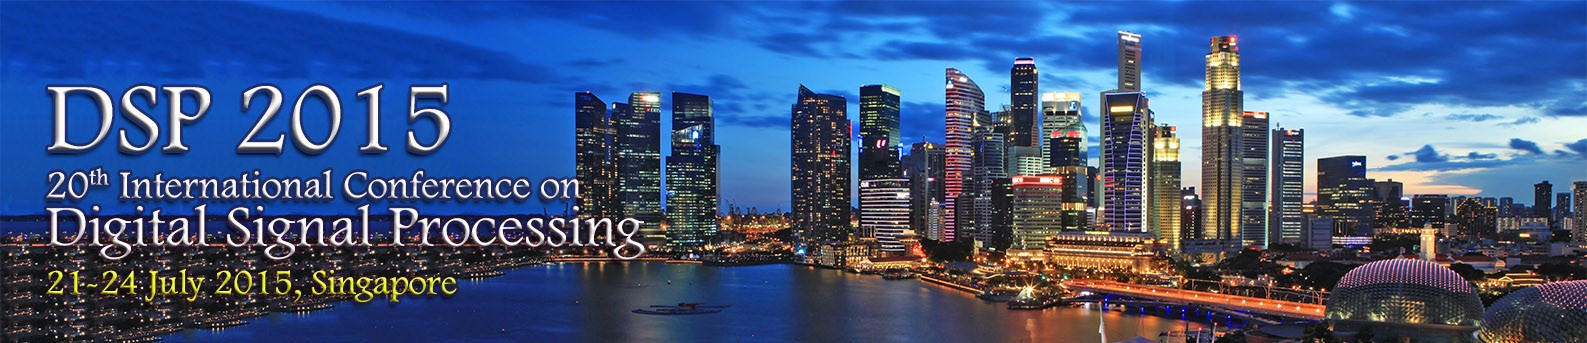
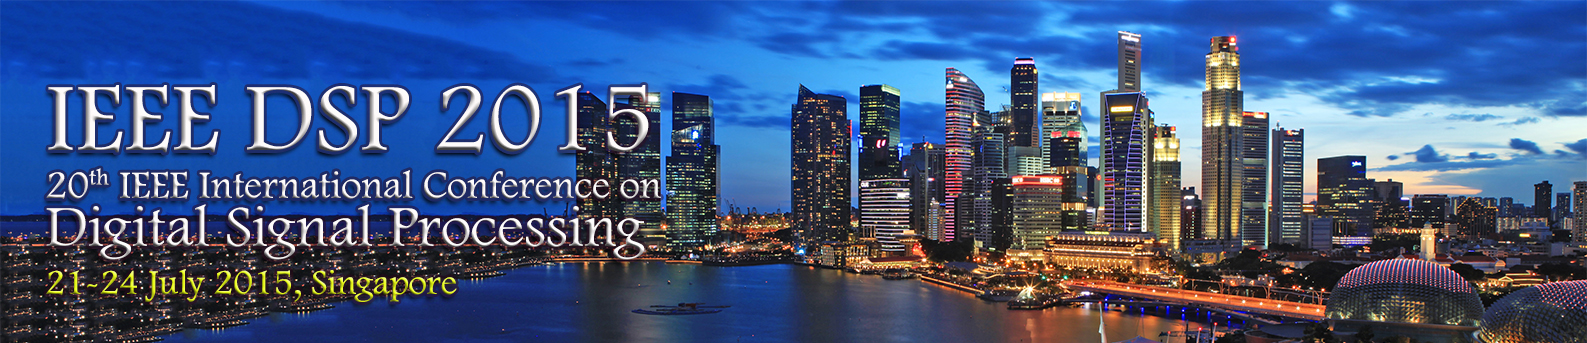
Ammendment

diff --git a/index.html b/index.html
@@ -162,14 +162,14 @@
         <div id="page-wrapper">
             <div class="row">
                 <div class="col-lg-12" style="padding: 0px;">
-                    <h3 class="page-header" style="padding: 0px;border: 0px;margin-bottom: 0px;">DSP 2015</h3>
-					<h3 class="page-header" style="margin-top: 0px;">20th INTERNATIONAL CONFERENCE ON DIGITAL SIGNAL PROCESSING</h3>
+                    <!-- <h3 class="page-header" style="padding: 0px;border: 0px;margin-bottom: 0px;">DSP 2015</h3>-->
+					<h3 class="page-header" style="padding: 0px;">2015 IEEE International conference on Digital Signal Processing (DSP)</h3>
 				</div>
                 <!-- /.col-lg-12 -->
             </div>
 			<div class="row">
                 <p>
-					The 2015 20th International Conference on Digital Signal Processing (DSP 2015), initiated by Imperial College, London, and organized by IEEE Circuits and Systems Singapore Chapter, will be held in July 21-24, 2014 in Singapore. It is the longest in existence Conference in the area of DSP and belongs to a series of events, which commenced in London in 1968 and continued to Florence, Nicosia, Limassol, Santorini, Cardiff, Corfu, etc. The latest meeting took place in Hong Kong, SAR, P. R. China in August 2014. 
+					2015 IEEE International conference on Digital Signal Processing (DSP), initiated by Imperial College, London, and organized by IEEE Circuits and Systems Singapore Chapter, will be held in July 21-24, 2014 in Singapore. It is the longest in existence Conference in the area of DSP and belongs to a series of events, which commenced in London in 1968 and continued to Florence, Nicosia, Limassol, Santorini, Cardiff, Corfu, etc. The latest meeting took place in Hong Kong, SAR, P. R. China in August 2014. 
 				</p>
 				<p>
 					DSP 2015 addresses the theory and application of filtering, coding, transmitting, estimating, detecting, analysing, recognising, synthesising, recording, and reproducing signals by means of digital devices or techniques. The term "signal" includes audio, video, speech, image, communication, geophysical, sonar, radar, medical, musical, and other signals.
@@ -228,8 +228,8 @@
         <div id="footer">
             <div class="container" style="background: white;">
                 <img src="images/Imperial.jpg">
-                <!-- <img src="images/IEEE.png">
-                <img src="images/CAS.jpg">
+                <img src="images/IEEE.png">
+                <!-- <img src="images/CAS.jpg">
                 <img src="images/SPS.png"> -->
                 <img src="images/ROSE2.png">
             </div>

diff --git a/callforpapers.html b/callforpapers.html
@@ -177,7 +177,7 @@
             </div>
 			<div class="row">
                 <p>
-					The 2015 20th International Conference on Digital Signal Processing (DSP 2015), initiated by Imperial College, London, and organized by IEEE Circuits and Systems Singapore Chapter, will be held in July 21-24, 2014 in Singapore. It is the longest in existence Conference in the area of DSP and belongs to a series of events, which commenced in London in 1968 and continued to Florence, Nicosia, Limassol, Santorini, Cardiff, Corfu, etc. The latest meeting took place in Hong Kong, SAR, P. R. China in August 2014. 
+					2015 IEEE International conference on Digital Signal Processing (DSP), initiated by Imperial College, London, and organized by IEEE Circuits and Systems Singapore Chapter, will be held in July 21-24, 2014 in Singapore. It is the longest in existence Conference in the area of DSP and belongs to a series of events, which commenced in London in 1968 and continued to Florence, Nicosia, Limassol, Santorini, Cardiff, Corfu, etc. The latest meeting took place in Hong Kong, SAR, P. R. China in August 2014. 
 				</p>
 				<p>
 					DSP 2015 addresses the theory and application of filtering, coding, transmitting, estimating, detecting, analysing, recognising, synthesising, recording, and reproducing signals by means of digital devices or techniques. The term "signal" includes audio, video, speech, image, communication, geophysical, sonar, radar, medical, musical, and other signals.
@@ -311,8 +311,8 @@
         <div id="footer">
             <div class="container" style="background: white;">
                 <img src="images/Imperial.jpg">
-                <!-- <img src="images/IEEE.png">
-                <img src="images/CAS.jpg">
+                <img src="images/IEEE.png">
+                <!-- <img src="images/CAS.jpg">
                 <img src="images/SPS.png"> -->
                 <img src="images/ROSE2.png">
             </div>

diff --git a/orgnizingcommittee.html b/orgnizingcommittee.html
@@ -208,6 +208,18 @@
             </br>YU, Yajun,
             <em>Nanyang Technological Uni., Singapore</em>
             </p>
+            <p><strong>Europe Liaison Chair</strong>
+            </br>GABBOUJ, Moncef,
+            <em>Tampere Uni. of Technology, Finland</em>
+            </p>
+            <p><strong>North America Liaison Chair</strong>
+            </br>ZHU, Wei-Ping,
+            <em>Concordia University, Canada</em>
+            </p>
+            <p><strong>South America Liaison Chair</strong>
+            </br>DA SILVA, Eduardo A. B.,
+            <em>Uni. Federal do Rio de Janeiro, Brazil</em>
+            </p>
             <p><strong>Publicity Co-Chairs</strong>
             </br>KOT, Alex Chichung,
             <em>Nanyang Technological Uni., Singapore</em>
@@ -244,25 +256,13 @@
             </br>KHONG, Andy W. H.,
             <em>Nanyang Technological Uni., Singapore</em>
             </p>
-            <p><strong>Europe Liaison Chair</strong>
-            </br>GABBOUJ, Moncef,
-            <em>Tampere Uni. of Technology, Finland</em>
-            </p>
-            <p><strong>North America Liaison Chair</strong>
-            </br>ZHU, Wei-Ping,
-            <em>Concordia University, Canada</em>
-            </p>
-            <p><strong>South America Liaison Chair</strong>
-            </br>DA SILVA, Eduardo A. B.,
-            <em>Uni. Federal do Rio de Janeiro, Brazil</em>
-            </p>
         </div>
         <!-- /#page-wrapper -->
         <div id="footer">
             <div class="container" style="background: white;">
                 <img src="images/Imperial.jpg">
-                <!-- <img src="images/IEEE.png">
-                <img src="images/CAS.jpg">
+                <img src="images/IEEE.png">
+                <!-- <img src="images/CAS.jpg">
                 <img src="images/SPS.png"> -->
                 <img src="images/ROSE2.png">
             </div>

diff --git a/specialsession.html b/specialsession.html
@@ -226,8 +226,8 @@
         <div id="footer">
             <div class="container" style="background: white;">
                 <img src="images/Imperial.jpg">
-                <!-- <img src="images/IEEE.png">
-                <img src="images/CAS.jpg">
+                <img src="images/IEEE.png">
+                <!-- <img src="images/CAS.jpg">
                 <img src="images/SPS.png"> -->
                 <img src="images/ROSE2.png">
             </div>

diff --git a/wip.html b/wip.html
@@ -171,8 +171,8 @@
         <div id="footer">
             <div class="container" style="background: white;">
                 <img src="images/Imperial.jpg">
-                <!-- <img src="images/IEEE.png">
-                <img src="images/CAS.jpg">
+                <img src="images/IEEE.png">
+                <!-- <img src="images/CAS.jpg">
                 <img src="images/SPS.png"> -->
                 <img src="images/ROSE2.png">
             </div>
